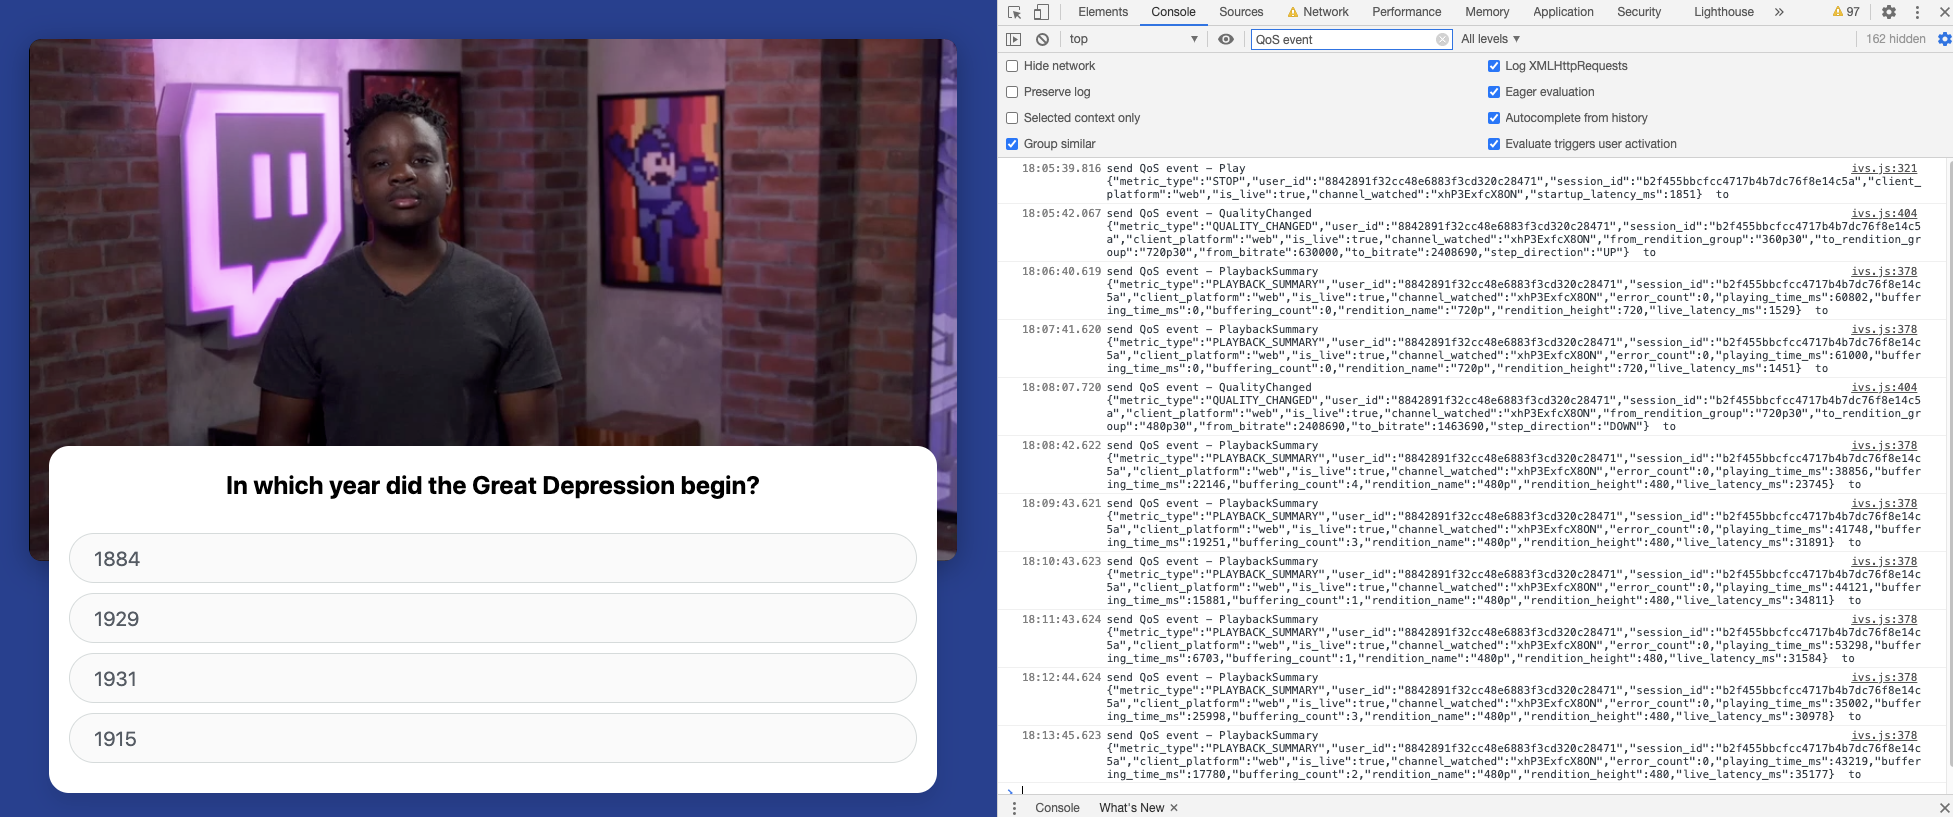
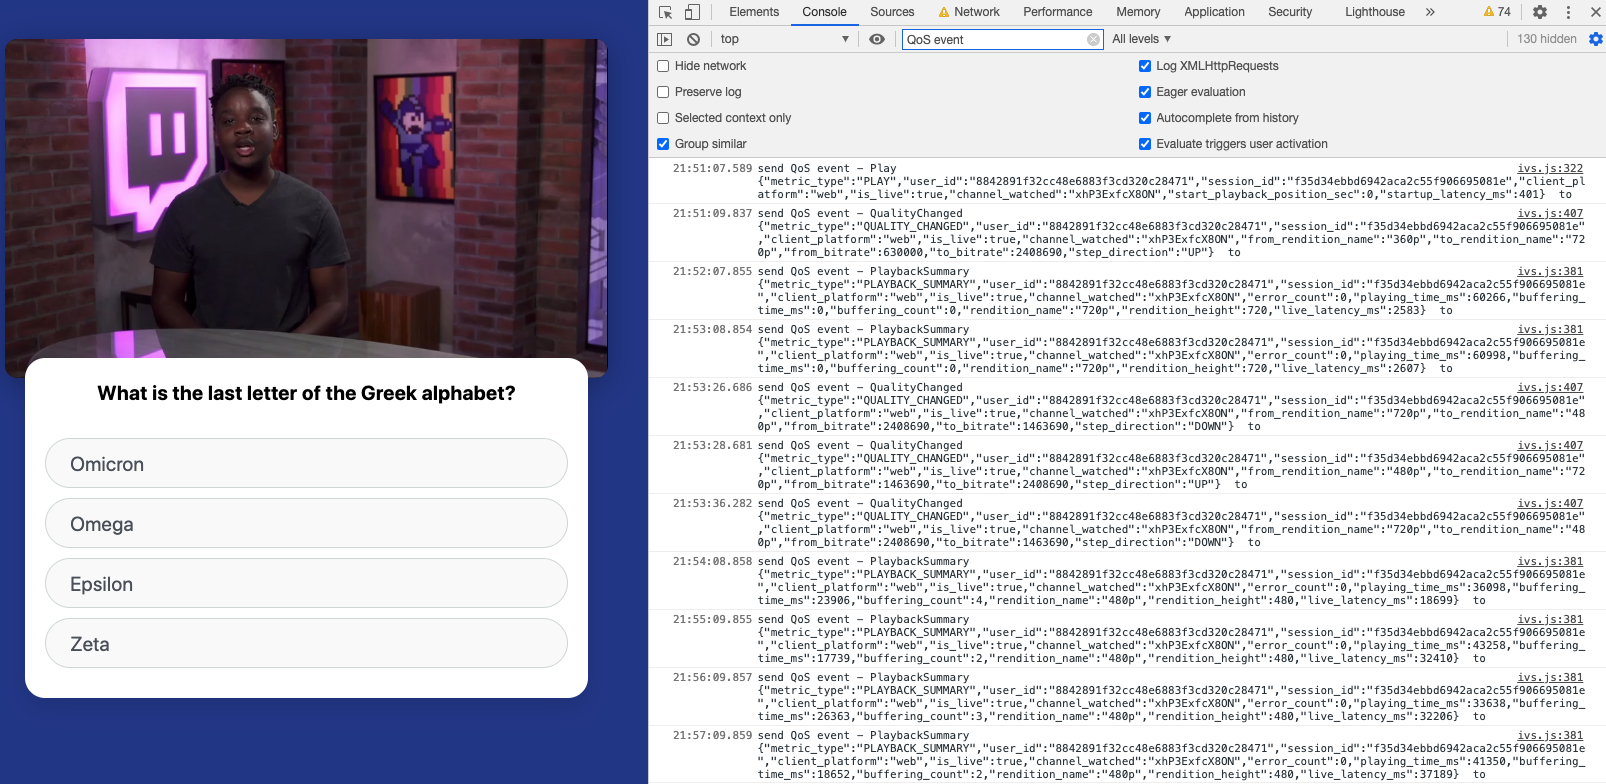
work in progress

diff --git a/web/IVSplayer/js/ivs.js b/web/IVSplayer/js/ivs.js
@@ -303,7 +303,7 @@ const cardInnerEl = document.getElementById("card-inner");
   function sendPlaybackStartEvent(url) {
       // (Yueshi to do) send out PLAY event, including startupLatencyMsOfThisSession, myJson.startup_latency_ms
       var myJson = {};
-      myJson.metric_type = "STOP";
+      myJson.metric_type = "PLAY";
   
       myJson.user_id = userId;
       myJson.session_id = sessionId;
@@ -312,6 +312,7 @@ const cardInnerEl = document.getElementById("card-inner");
       myJson.is_live = isLiveChannel();
       myJson.channel_watched = getChannelWatched(myJson.is_live);
 
+      myJson.start_playback_position_sec = Math.round(player.getPosition());
       myJson.startup_latency_ms = startupLatencyMsOfThisSession;
   
       if (url != "") {
@@ -332,6 +333,8 @@ const cardInnerEl = document.getElementById("card-inner");
     myJson.client_platform = config.client_platform;
     myJson.is_live = isLiveChannel();
     myJson.channel_watched = getChannelWatched(myJson.is_live);
+
+    myJson.end_playback_position_sec = Math.round(player.getPosition());
 
     if (url != "") {
       pushPayload(url,myJson);
@@ -391,8 +394,8 @@ const cardInnerEl = document.getElementById("card-inner");
     myJson.is_live = isLiveChannel();
     myJson.channel_watched = getChannelWatched(myJson.is_live);
 
-    myJson.from_rendition_group = lastQuality.group;
-    myJson.to_rendition_group = newQuality.group;
+    myJson.from_rendition_name = lastQuality.name;
+    myJson.to_rendition_name = newQuality.name;
     myJson.from_bitrate = lastQuality.bitrate;
     myJson.to_bitrate = newQuality.bitrate;
     myJson.step_direction = (newQuality.bitrate > lastQuality.bitrate)? "UP":"DOWN";

diff --git a/web/IVSplayer/README.md b/web/IVSplayer/README.md
@@ -150,8 +150,9 @@ The data collected within the QoS events can be leveraged to generate two types 
 | client_platform | string | e.g., “web”, “android”, “ios” |
 | is_live | boolean |  |
 | channel_watched | string | the string after ".channel." in the playback URL, e.g., “xhP3ExfcX8ON” for the test channel |
-|  |  | **// startup latency** |
-| startup_latency_ms | integer | latency  in ms from load() being called to state becoming PLAYING for the first time in a playback session |
+|  |  | **// playback position and startup latency** |
+| start_playback_position_sec | integer | start playback position in seconds |
+| startup_latency_ms | integer | latency in ms from load() being called to state becoming PLAYING for the first time in a playback session |
 
 ##### 3.1.2.2 STOP
 
@@ -166,6 +167,8 @@ The data collected within the QoS events can be leveraged to generate two types 
 | client_platform | string | e.g., “web”, “android”, “ios” |
 | is_live | boolean |  |
 | channel_watched | string | the string after ".channel." in the playback URL, e.g., “xhP3ExfcX8ON” for the test channel |
+|  |  | **// playback position** |
+| end_playback_position_sec | integer | end playback position in seconds |
 
 ##### 3.1.2.3 PLAYBACK_SUMMARY
 
@@ -186,7 +189,7 @@ The data collected within the QoS events can be leveraged to generate two types 
 | buffering_time_ms | integer | the duration (in ms) of the player SDK staying in the "BUFFERING" state |
 | buffering_count | integer | how many times does the player SDK enter the "BUFFERING" state in the last minute (or whatever sampling period)|
 | rendition_name | string | e.g., "Source", "720p60", "720p", "480p", "240p", "160p" (snapshot taken right before the event is sent) |
-| rendition_height | integer | (snapshot taken right before the event is sent) |
+| rendition_height | integer | e.g., 1080, 720, 480, 240, 160 (snapshot taken right before the event is sent) |
 | live_latency_ms | integer | latency in ms based on "getLiveLatency()" covering the latency from ingest to playback (i.e., not include the latency of broadcast tool), live only. set to -1, if VOD |
 
 ##### 3.1.2.4 QUALITY_CHANGED
@@ -202,8 +205,8 @@ The data collected within the QoS events can be leveraged to generate two types 
 | client_platform | string | e.g., “web”, “android”, “ios” |
 | is_live | boolean |  |
 |  |  | **// rendition change** |  
-| from_rendition_group | string |  |
-| to_rendition_group | string |  |
+| from_rendition_name | string | e.g., "Source", "720p60", "720p", "480p", "240p", "160p" |
+| to_rendition_name | string | e.g., 1080, 720, 480, 240, 160 |
 | from_rendition_bitrate | integer |  |
 | to_rendition_bitrate | integer |  |
 | step_direction | string | "UP" or "DOWN" |
